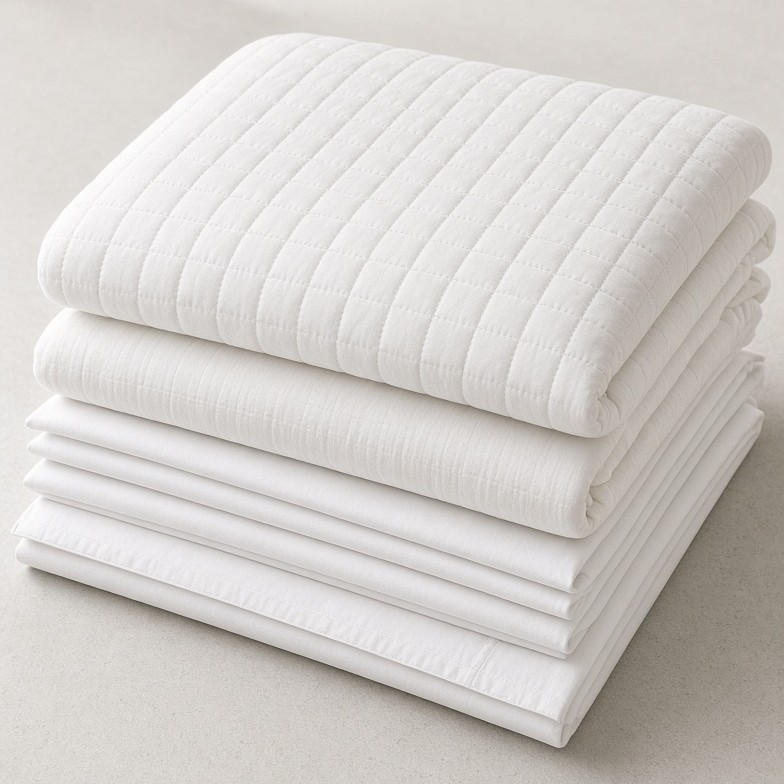
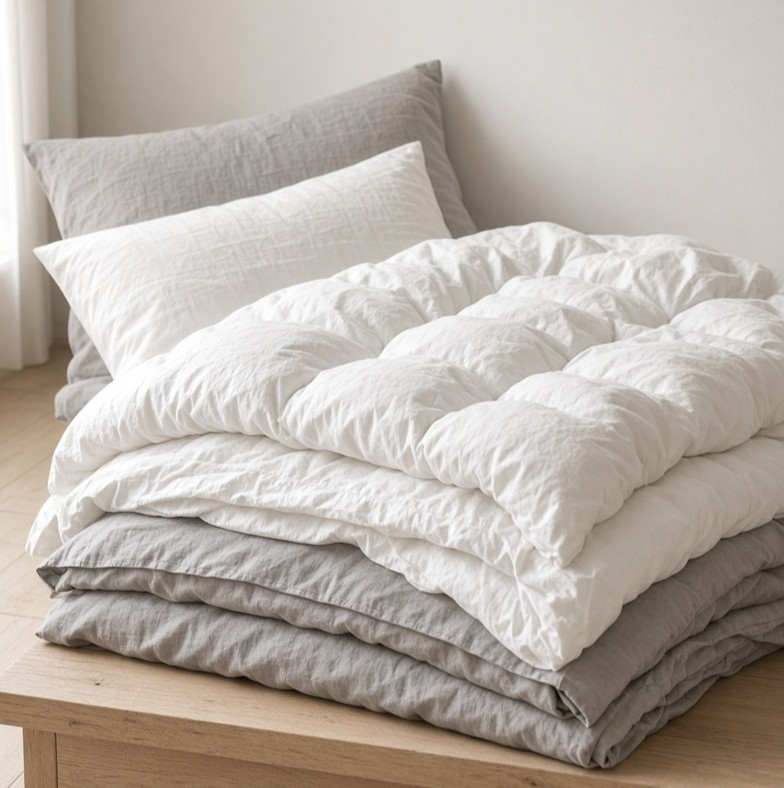
style: update ContactSection layout to use grid for improved alignment and responsiveness

diff --git a/src/components/ContactSection.css b/src/components/ContactSection.css
@@ -33,9 +33,13 @@
   border-top: 1px solid var(--muted);
 }
 
+/* Content sits as one block in the middle of the column;
+   every row still starts at the same left edge */
 .contact-details {
-  display: flex;
-  flex-direction: column;
+  display: grid;
+  grid-template-columns: minmax(0, max-content);
+  justify-content: center;
+  align-content: center;
   gap: var(--space-6);
   padding: var(--space-12) var(--feature-pad); /* same side gutter as the service panels */
 }
@@ -130,7 +134,12 @@ a.contact-value:hover {
 
 /* ----- Form ----- */
 
+/* Same idea: the form is a fixed-width block centered in its column */
 .contact-form-wrap {
+  display: grid;
+  grid-template-columns: minmax(0, 480px);
+  justify-content: center;
+  align-content: center;
   padding: var(--space-12) var(--feature-pad);
   background: var(--background);
   border-left: 1px solid var(--muted);
